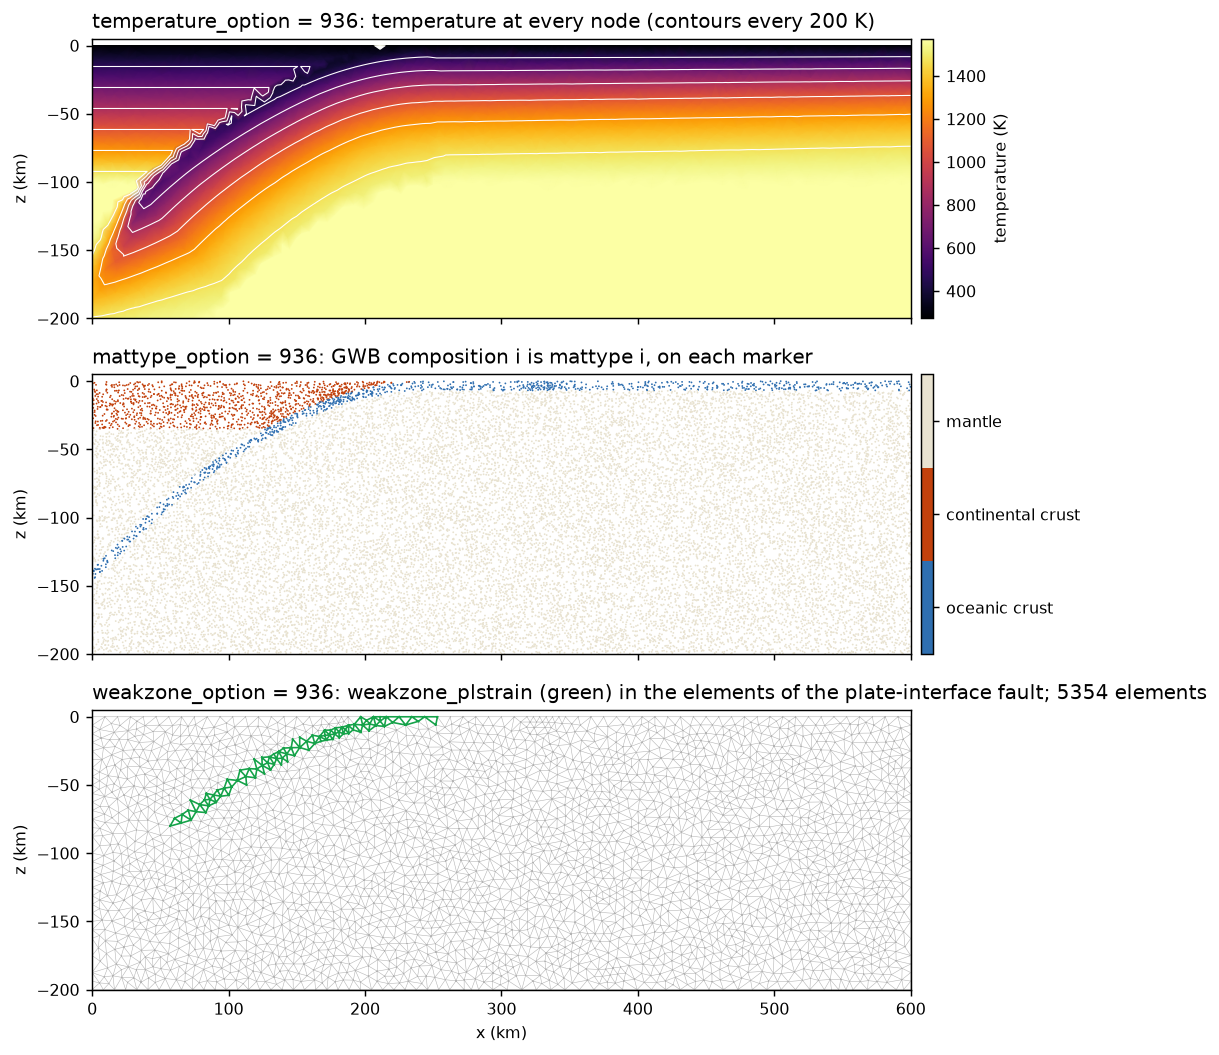
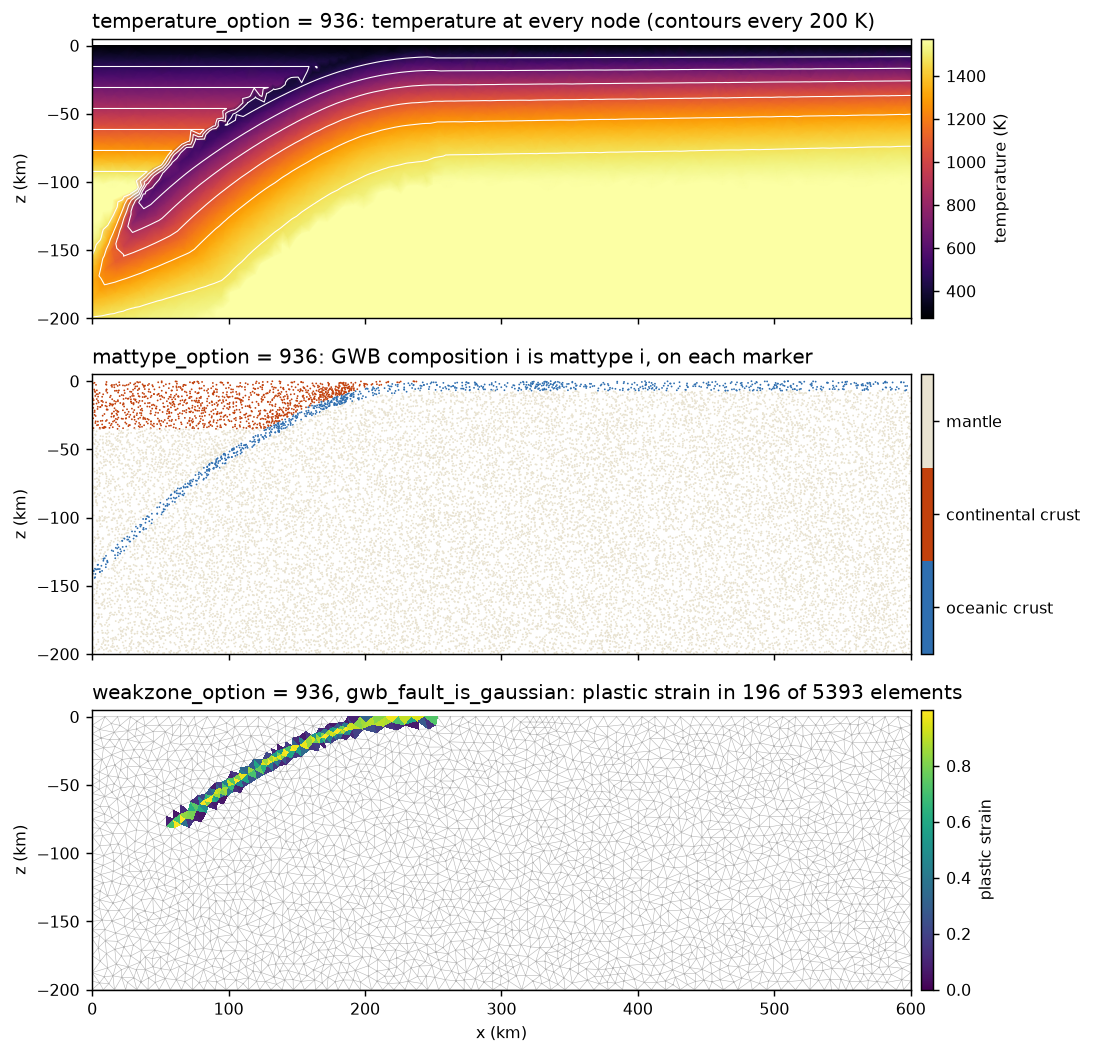
docs: the GWB subduction example's Gaussian weak zone
Example 1 follows GeoFLAC/DynEarthSol#117's gwb-subduction, now with a
Gaussian plate-interface weak zone: its keys, new counts, and a figure
panel colouring the weak elements by plastic strain.

Claude-Session: https://claude.ai/code/session_01WvW8AoaprBwkkfuK6kv75a

Changed region(s): [[0.0, 0.3033, 0.9954, 1.0], [0.0, 0.0, 0.9332, 0.3033]]

diff --git a/docs/tutorial/img/gwb/_src/make_gwb_figures.py b/docs/tutorial/img/gwb/_src/make_gwb_figures.py
@@ -61,10 +61,12 @@ def subduction(d):
     ax[1].set_title('mattype_option = 936: GWB composition i is mattype i, on each marker',
                     loc='left')
     ax[2].triplot(tri, color='0.7', lw=0.3)
-    weak_outline(ax[2], tri, pls)
-    ax[2].set_title('weakzone_option = 936: weakzone_plstrain (green) in the elements of the '
-                    'plate-interface fault; %d elements' % len(conn), loc='left')
-    cbar_axes(ax[2]).axis('off')
+    w = pls > 0
+    pc = ax[2].tripcolor(mtri.Triangulation(tri.x, tri.y, tri.triangles[w]), facecolors=pls[w],
+                         cmap='viridis', vmin=0, vmax=pls.max())
+    fig.colorbar(pc, cax=cbar_axes(ax[2]), label='plastic strain')
+    ax[2].set_title('weakzone_option = 936, gwb_fault_is_gaussian: plastic strain in %d of %d '
+                    'elements' % (w.sum(), len(conn)), loc='left')
     for a in ax:
         a.set_ylabel('z (km)')
         a.set_xlim(0, 600)

diff --git a/docs/tutorial/gwb.md b/docs/tutorial/gwb.md
@@ -151,24 +151,32 @@ also takes the bottom temperature as the largest initial temperature.
 `examples/gwb-subduction.cfg` and `.wb`: a 600 × 200 km cross section of a
 continental plate (35 km crust), an oceanic plate (7 km crust) and a slab
 descending from x = 250 km to about 180 km depth, with GWB's plate and
-mass-conserving slab temperatures, and a 6 km-thick fault along the slab top to
+mass-conserving slab temperatures, and a 12 km-thick fault along the slab top to
 80 km, the plate interface. All three options are on; the materials are
-0 oceanic crust, 1 continental crust and 2 mantle.
+0 oceanic crust, 1 continental crust and 2 mantle. The weak zone is Gaussian:
+
+```cfg
+weakzone_plstrain = 1
+gwb_fault_is_gaussian = yes
+weakzone_standard_deviation = 2.5e3   # the 12 km thickness is about 5 sigma
+```
 
 ```bash
 cd DynEarthSol/examples
 ../dynearthsol2d gwb-subduction.cfg
 ```
 
-![The 2D subduction example at t = 0: the GWB temperature at every node, the material of every marker, and the weak elements of the plate-interface fault](./img/gwb/gwb-subduction.png)
+![The 2D subduction example at t = 0: the GWB temperature at every node, the material of every marker, and the plastic strain of the Gaussian plate-interface weak zone](./img/gwb/gwb-subduction.png)
 
-The initial mesh has 5354 elements and 21 416 markers: 932 of oceanic crust,
-1140 of continental crust and 19 344 of mantle. 93 elements lie in the fault.
+The initial mesh has 5393 elements and 21 572 markers: 1006 of oceanic crust,
+1184 of continental crust and 19 382 of mantle. 196 elements lie in the fault,
+with plastic strain from 1 at the slab top down to 0.06 at the fault's edges,
+6 km away.
 The ragged isotherms above the slab follow a step in the world's temperature
 at the slab top: at x = 130 km it drops by 285 K within 1 km at 33 km depth,
 from the overriding plate's geotherm to the cold slab, and the 5 km mesh
-samples that step. The example runs 100 kyr with fixed walls in about 8 s on 4 threads: it shows the
-initial fields rather than subduction.
+samples that step. The example runs 100 kyr with fixed walls in about 8 s on
+4 threads: it shows the initial fields rather than subduction.
 
 ## Example 2: a weak zone alone, in a core complex
 
